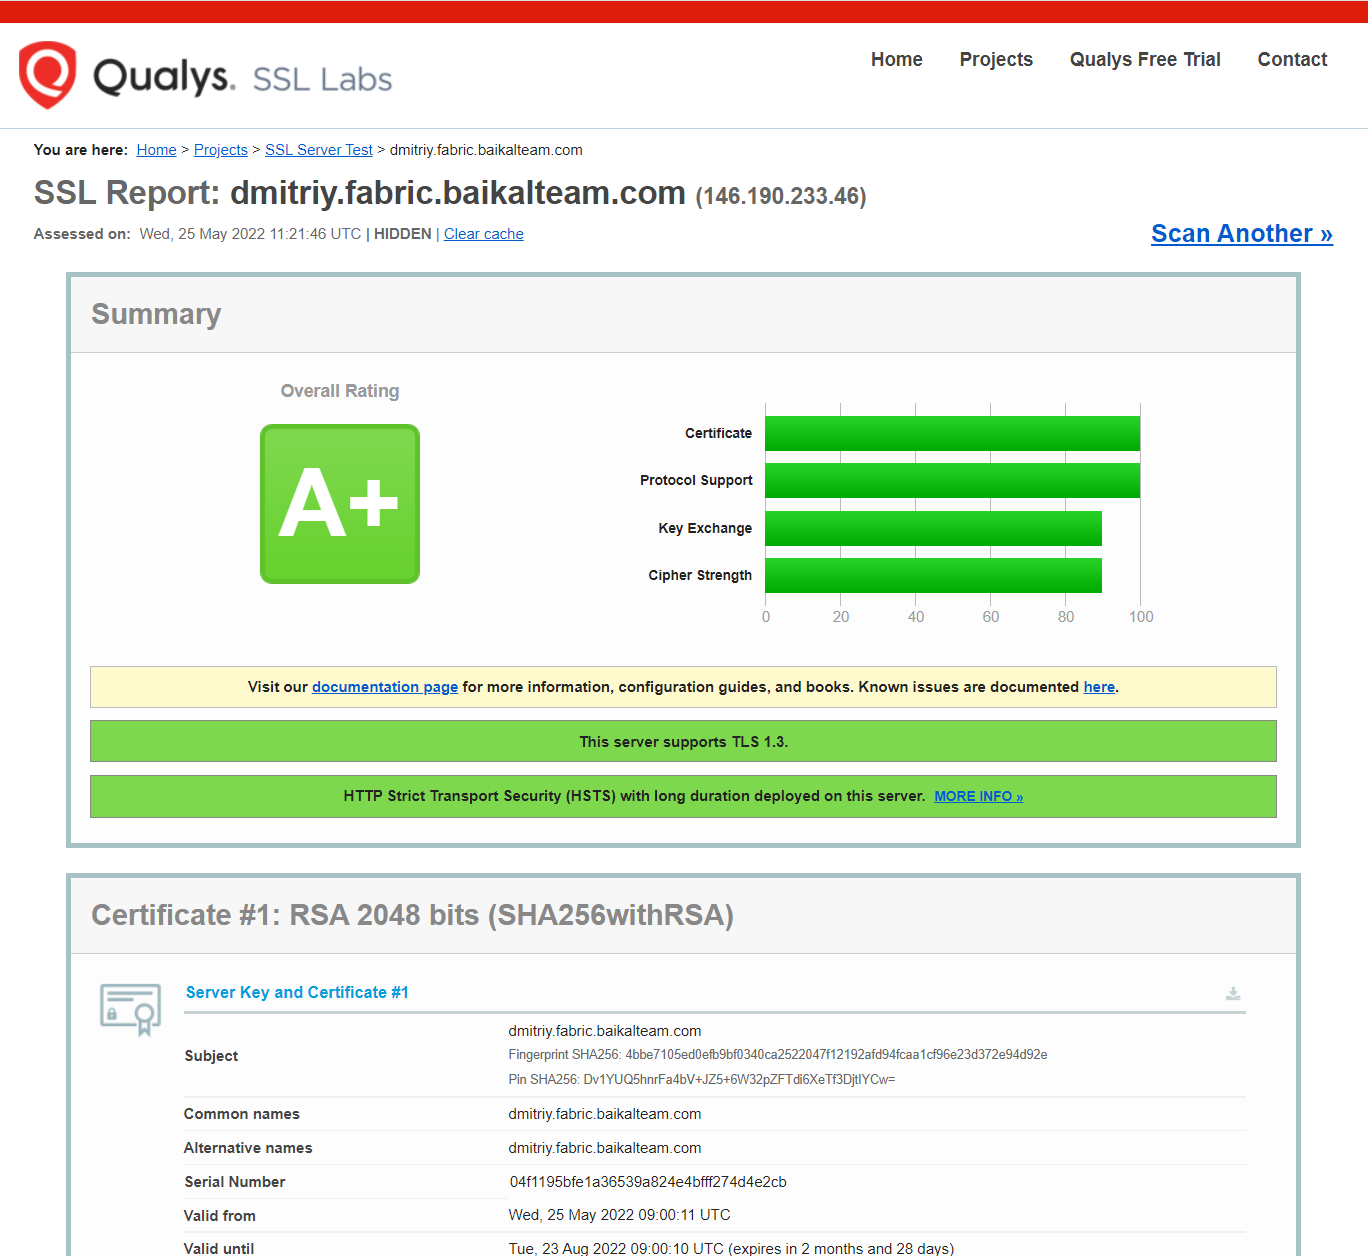
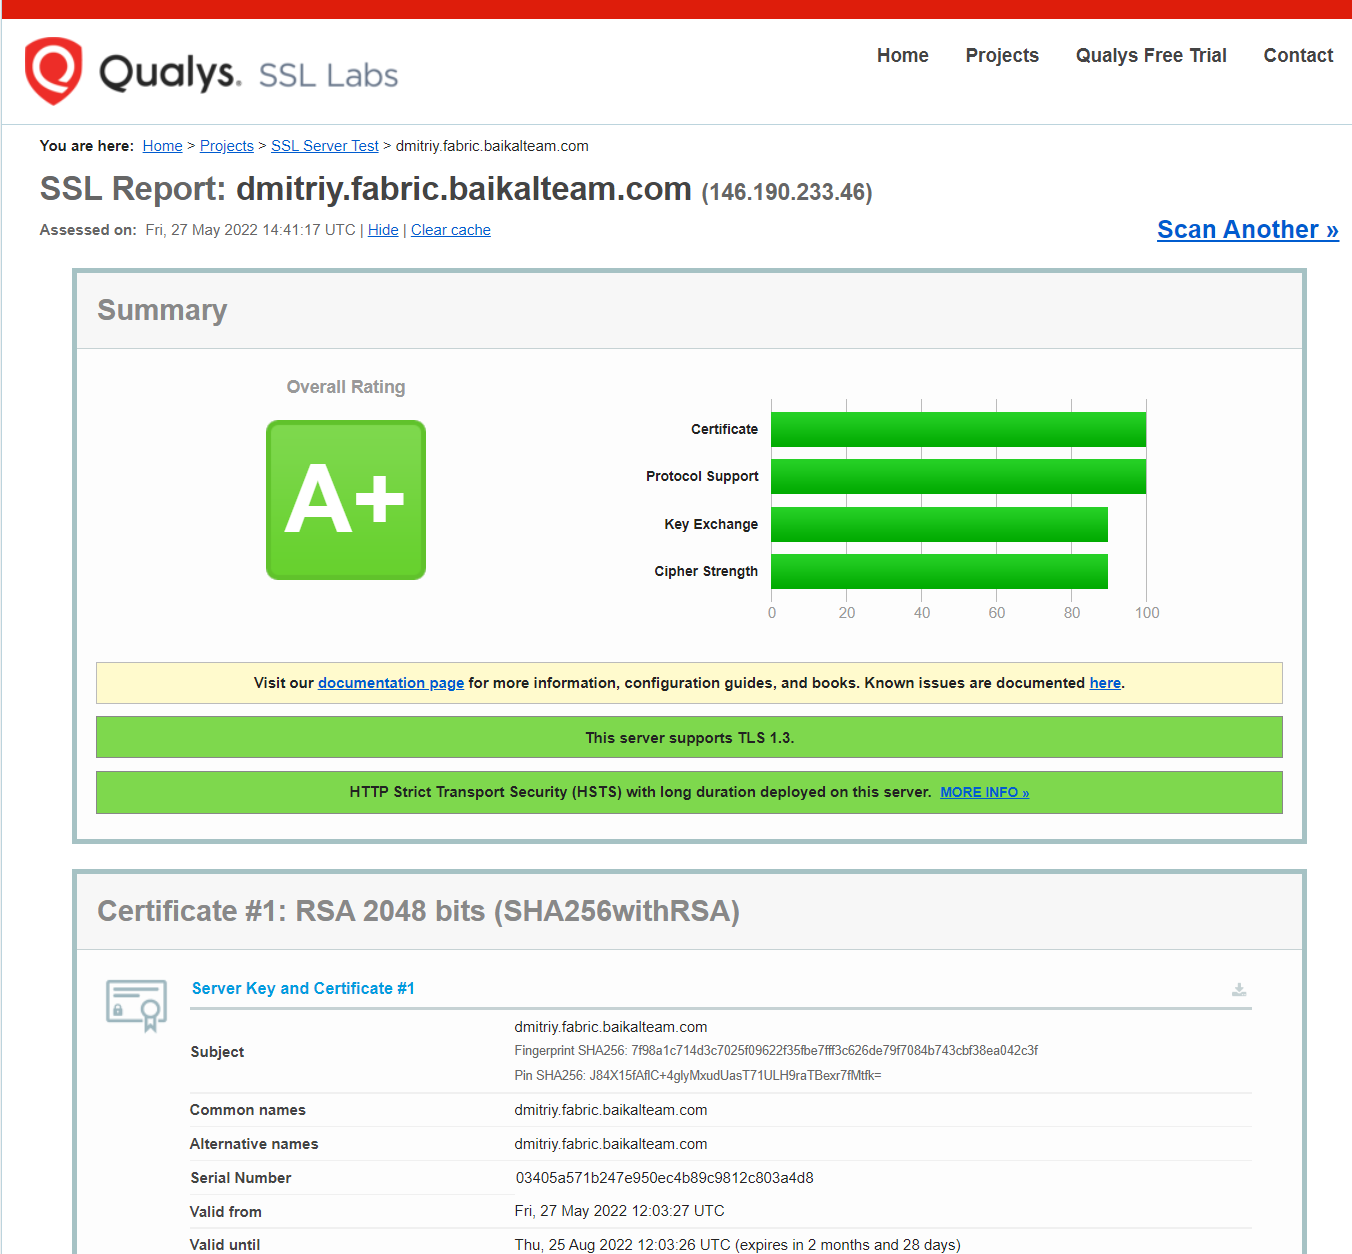
DEVOPS-061 fix certbot command

diff --git a/DEVOPS-061/README.md b/DEVOPS-061/README.md
@@ -9,9 +9,9 @@ shell script to configure NGINX web server.
 ### 3. default.conf
 NGINX configuration file with default server.
 ### 4. dmitriy.fabric.baikalteam.com.conf
-NGINX subdomain configuration on virtual host dmitriy.fabric.baikalteam.com.
+NGINX subdomain configuration on virtual host dmitriy.fabric.baikalteam.com with HTTPS.
 ### 5. certbot_run.sh
-script to install certbot and configure NGINX with A+ SSL Test rating.
+script to install certbot and get LE certificete.
 
 ---
 
@@ -19,37 +19,33 @@ script to install certbot and configure NGINX with A+ SSL Test rating.
 ### Virtual Host configuration for domain dmitriy.fabric.baikalteam.com
 ```console
 server {
+       listen 80;
+       listen [::]:80;
        server_name dmitriy.fabric.baikalteam.com;
+       return 301 https://$host$request_uri;
+}
+server {
+       listen 443 ssl http2;
+       listen [::]:443 ssl ipv6only=on;
+       ssl_certificate /etc/letsencrypt/live/dmitriy.fabric.baikalteam.com/fullchain.pem;
+       ssl_certificate_key /etc/letsencrypt/live/dmitriy.fabric.baikalteam.com/privkey.pem;
+       include /etc/letsencrypt/options-ssl-nginx.conf;
+       ssl_dhparam /etc/letsencrypt/ssl-dhparams.pem;
+       ssl_stapling on;
+       add_header Strict-Transport-Security "max-age=63072000;";
+
        root /var/www/dmitriy.fabric.baikalteam.com/html;
        index index.html;
        location / {
               try_files $uri $uri/ =404;
        }
-           location = /helloworld {
+       location = /helloworld {
               try_files $uri /hello.html;
        }
-           location = /redirect {
-               return 302 https://fabric.baikalteam.com/;
+       location = /redirect {
+              return 302 https://fabric.baikalteam.com/;
        }
-
-    listen [::]:443 ssl ipv6only=on; # managed by Certbot
-    listen 443 ssl; # managed by Certbot
-    ssl_certificate /etc/letsencrypt/live/dmitriy.fabric.baikalteam.com/fullchain.pem; # managed by Certbot
-    ssl_certificate_key /etc/letsencrypt/live/dmitriy.fabric.baikalteam.com/privkey.pem; # managed by Certbot
-    include /etc/letsencrypt/options-ssl-nginx.conf; # managed by Certbot
-    ssl_dhparam /etc/letsencrypt/ssl-dhparams.pem; # managed by Certbot
-
 }
-server {
-    if ($host = dmitriy.fabric.baikalteam.com) {
-        return 301 https://$host$request_uri;
-    } # managed by Certbot
-
-
-       listen 80;
-       listen [::]:80;
-       server_name dmitriy.fabric.baikalteam.com;
-    return 404; # managed by Certbot
 ```
 
 
@@ -58,23 +54,31 @@ server {
 ### Interactive mode
 
 ```console
-certbot --nginx
+certbot certonly
 ```
 
 ### Automatic mode
 
 ```console
-certbot --nginx --agree-tos --redirect --hsts --staple-ocsp --email pashkov.dmitriy@gmail.com -d dmitriy.fabric.baikalteam.com
+certbot certonly --webroot --webroot-path /var/www/dmitriy.fabric.baikalteam.com/html --domain dmitriy.fabric.baikalteam.com
 ```
 
 ## III. A+ SSL Test Rating
 
 ### Enabling HSTS with more than 1 week duration (satisified A+ SSL Test rating)
+- by adding HSTS header into virtual server directive:
+
+```console
+add_header Strict-Transport-Security "max-age=63072000;";
+```
+- or in the shared SSL configuration:
+
 ```console
 cat >> /etc/letsencrypt/options-ssl-nginx.conf <<EOF
 add_header Strict-Transport-Security "max-age=63072000;";
 EOF
 ```
+
 
 ## IV. Certbot's current rate limits
 1. 50 certificates per Registered Domain per week (error message: too many certificates already issued)
